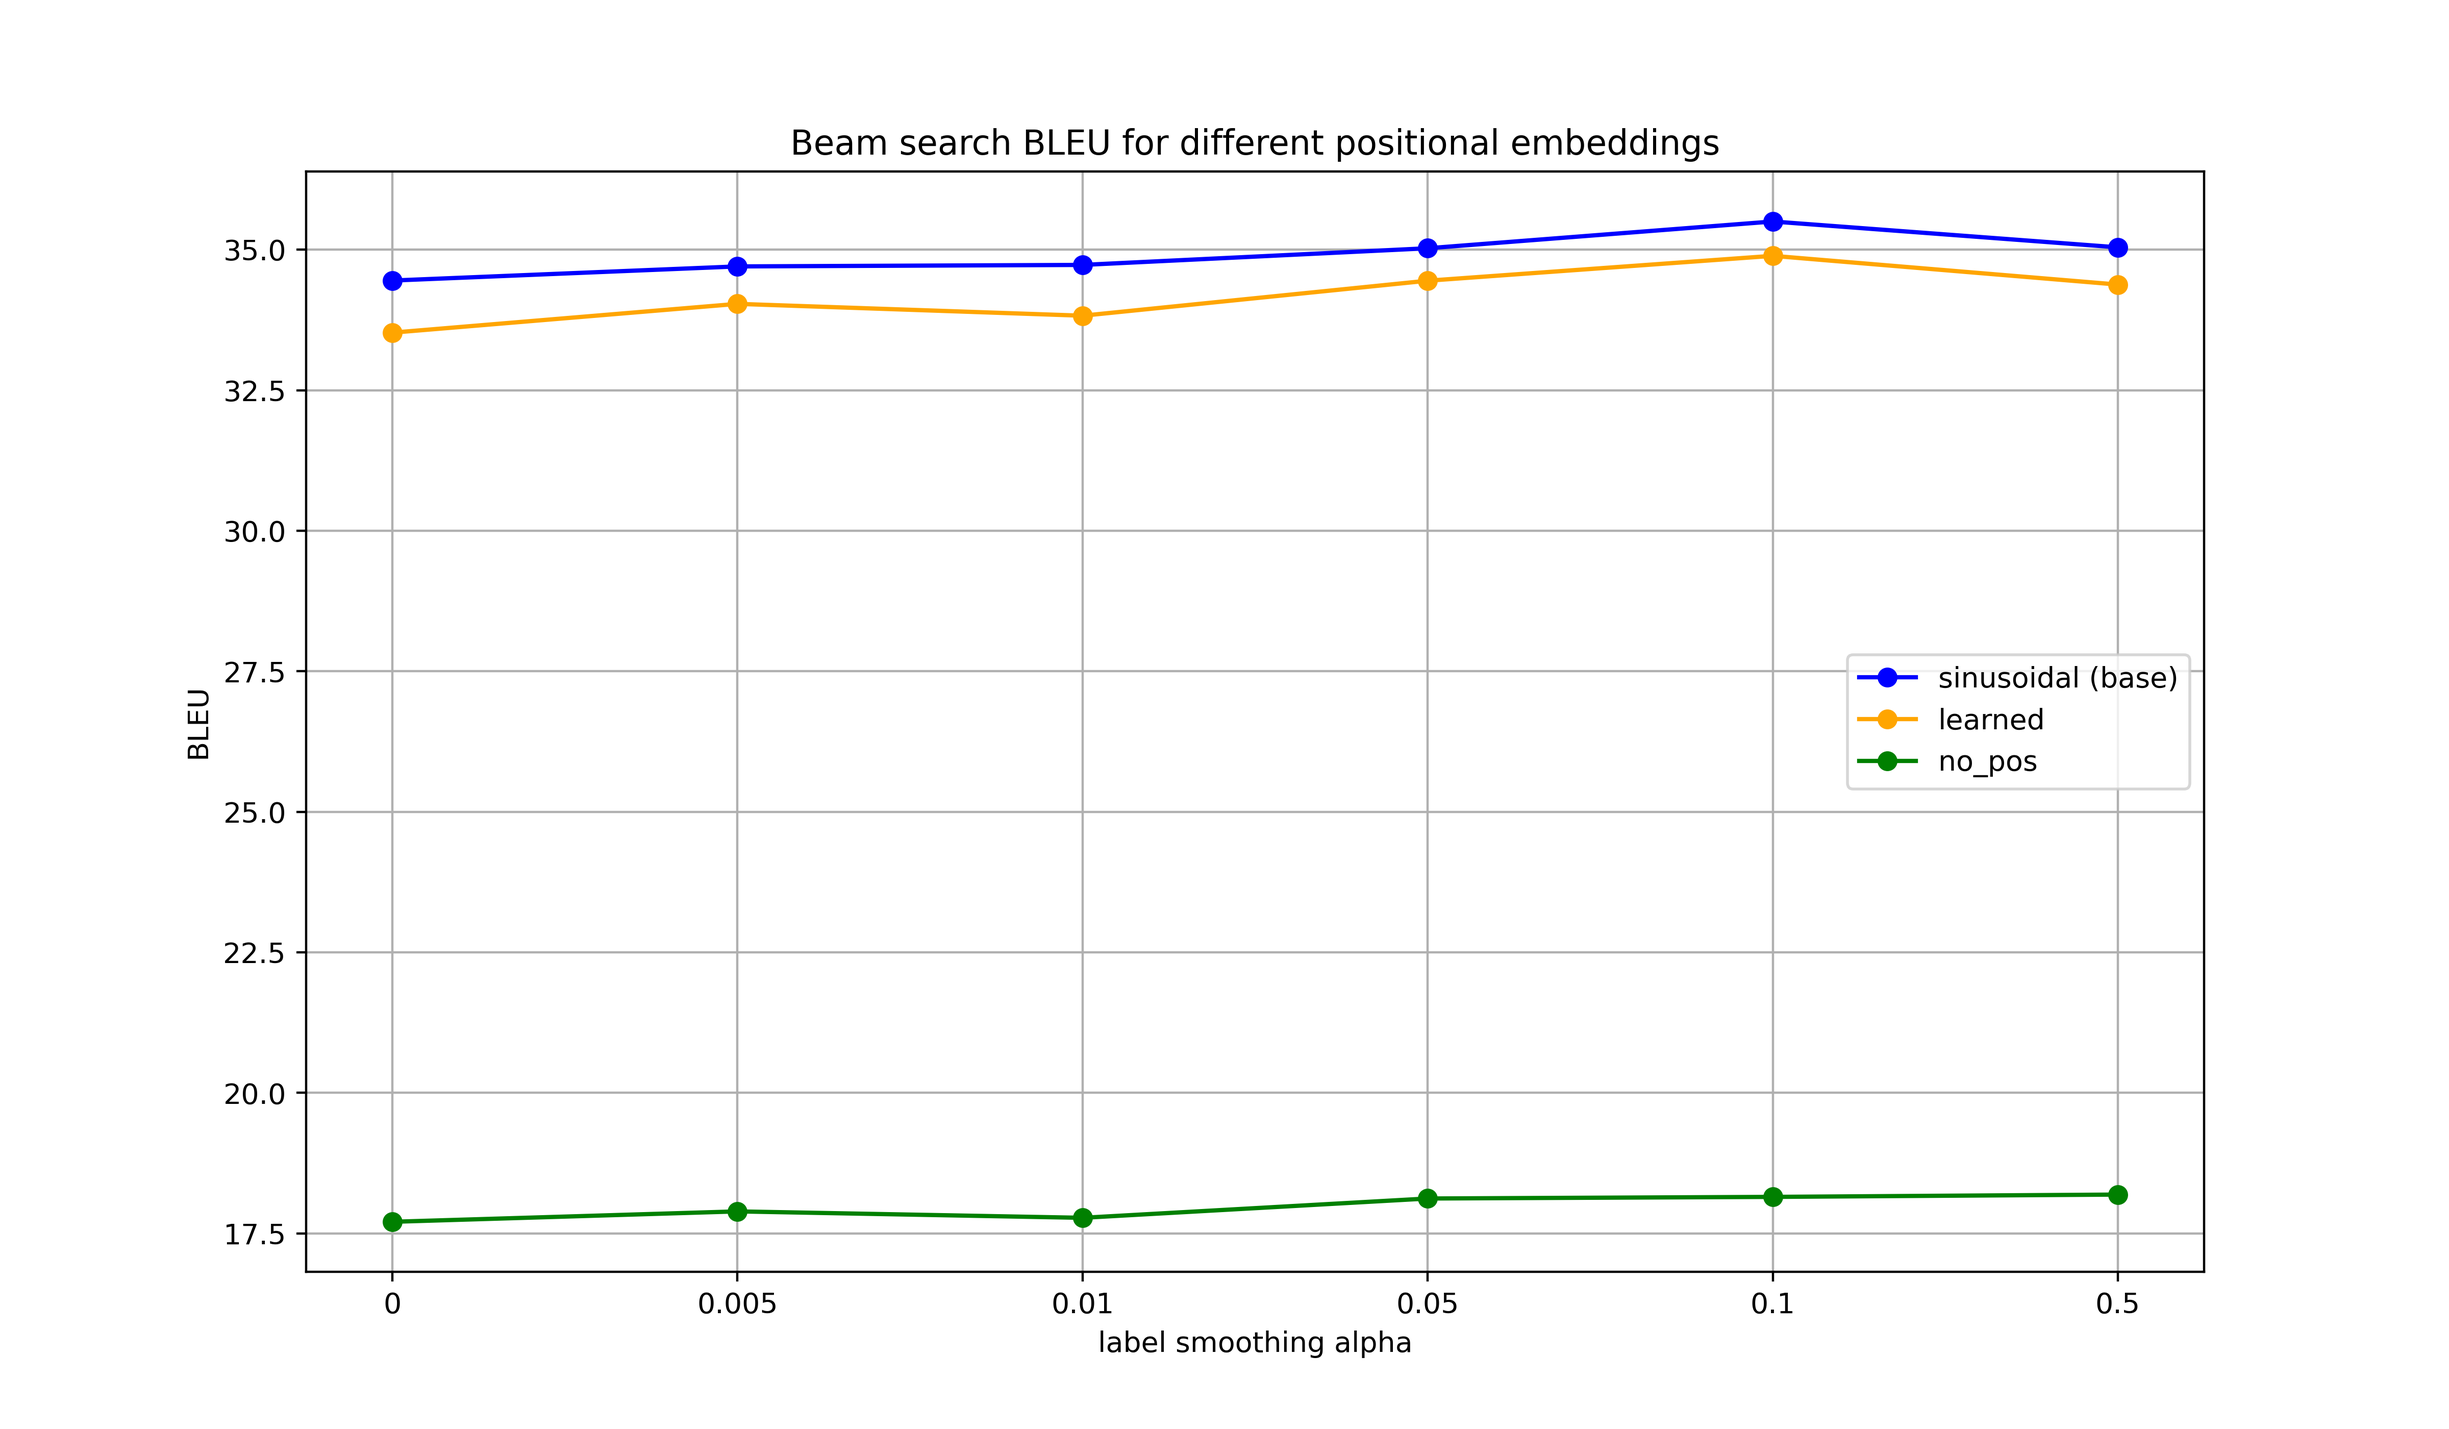
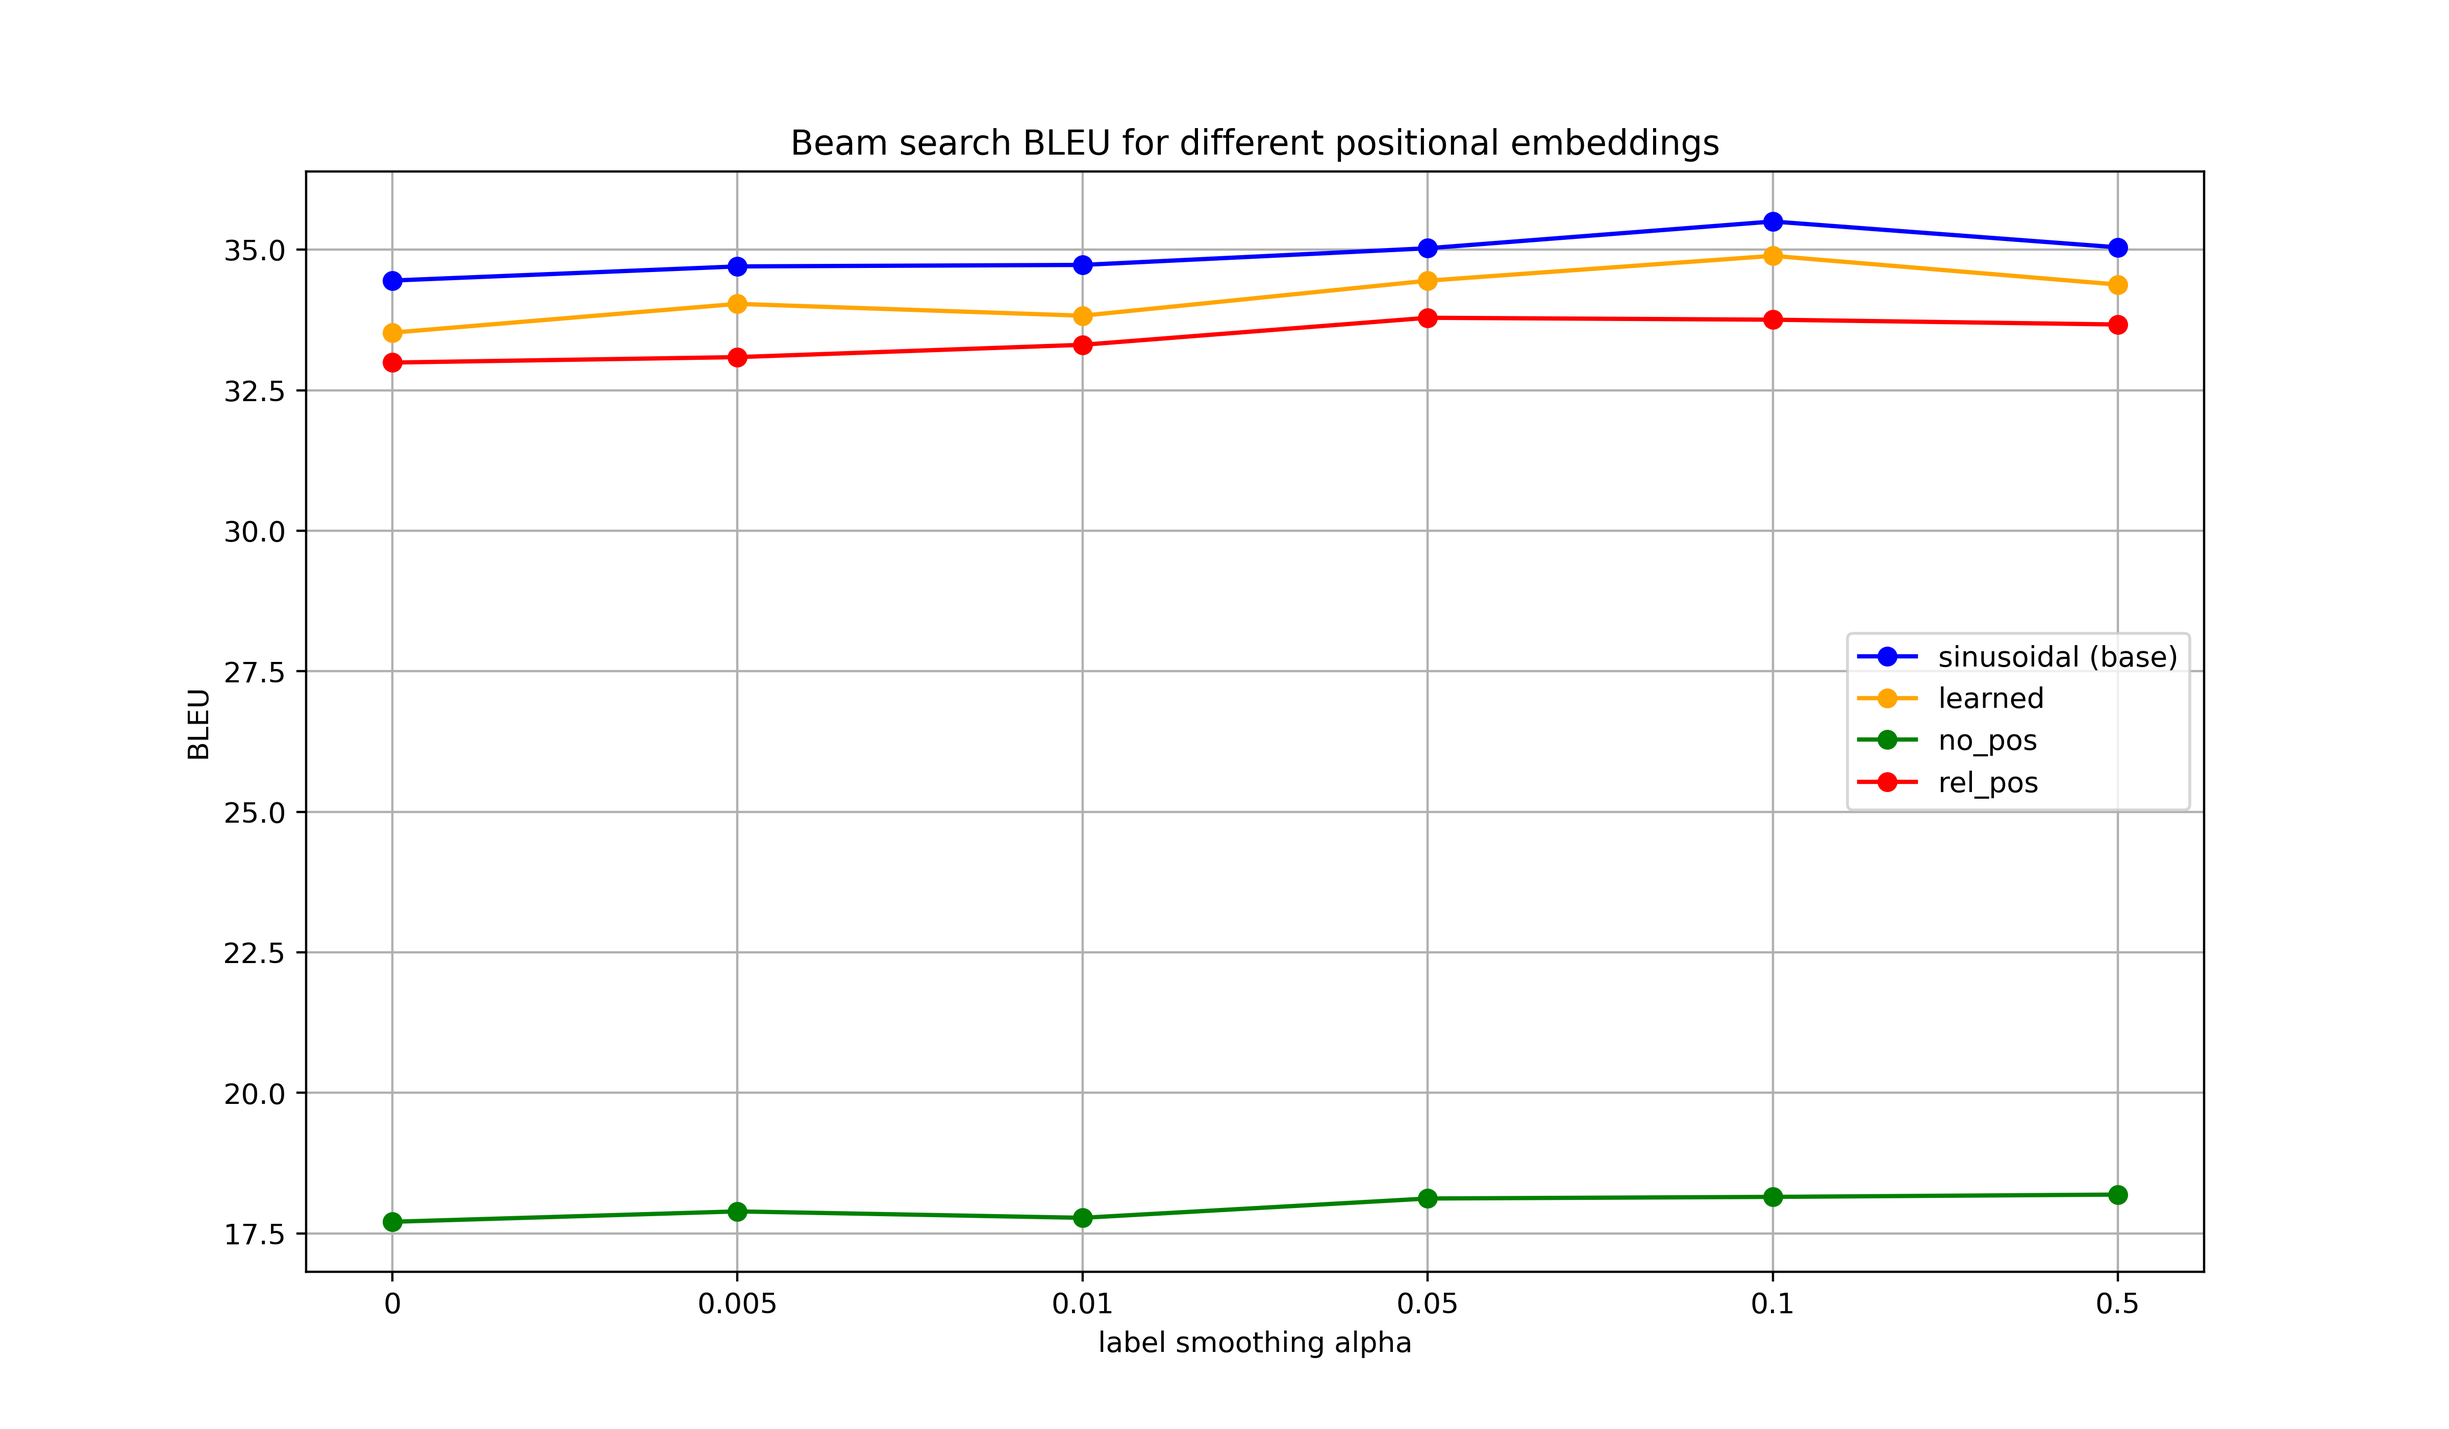
positional embedding plots

Changed region(s): [[0.3438, 0.2175, 0.875, 0.2486], [0.75, 0.435, 0.9062, 0.5593], [0.1562, 0.2486, 0.3125, 0.2796]]

diff --git a/transformer/scripts/nopos_sampling.py b/transformer/scripts/nopos_sampling.py
@@ -3,11 +3,11 @@ import matplotlib.pyplot as plt
 import math
 
 ls_list = ['0', '0.005', '0.01', '0.05', '0.1', '0.5']
-hyp_dict = {'base':[], 'pos_learned':[], 'no_pos':[], 'rel_pos':[]}
-bleu_dict = {'base':[], 'pos_learned':[], 'no_pos':[], 'rel_pos':[]}
-ref_dict = {'base':[], 'pos_learned':[], 'no_pos':[], 'rel_pos':[]}
-se_dict = {'base':[], 'pos_learned':[], 'no_pos':[], 'rel_pos':[]}
-std_dict = {'base':[], 'pos_learned':[], 'no_pos':[], 'rel_pos':[]}
+hyp_dict = {'base':[], 'no_pos':[], 'no_pos_1':[], 'no_pos_2':[]}
+bleu_dict = {'base':[], 'no_pos':[], 'no_pos_1':[], 'no_pos_2':[]}
+ref_dict = {'base':[], 'no_pos':[], 'no_pos_1':[], 'no_pos_2':[]}
+se_dict = {'base':[], 'no_pos':[], 'no_pos_1':[], 'no_pos_2':[]}
+std_dict = {'base':[], 'no_pos':[], 'no_pos_1':[], 'no_pos_2':[]}
 
 for d in hyp_dict.keys():
     for l in ls_list:
@@ -40,9 +40,9 @@ for d in hyp_dict.keys():
 plt.figure(figsize=(12,7))
 plt.errorbar(ls_list, hyp_dict['base'], se_dict['base'], marker='o', label='sinusoid (base)', color='blue', capsize=4)
 plt.hlines(ref_dict['base'][0], ls_list[0], ls_list[-1], label='reference', color='grey', linestyle='dashed')
-plt.errorbar(ls_list, hyp_dict['pos_learned'], se_dict['pos_learned'], marker='o', label='learned', color='orange', capsize=4)
-plt.errorbar(ls_list, hyp_dict['no_pos'], se_dict['no_pos'], marker='o', label='no_pos', color='green', capsize=4)
-plt.errorbar(ls_list, hyp_dict['rel_pos'], se_dict['rel_pos'], marker='o', label='rel_pos', color='red', capsize=4)
+plt.errorbar(ls_list, hyp_dict['no_pos'], se_dict['no_pos'], marker='o', label='no_pos', color='red', capsize=4)
+plt.errorbar(ls_list, hyp_dict['no_pos_1'], se_dict['no_pos_1'], marker='o', label='no_pos control 1', color='orange', capsize=4)
+plt.errorbar(ls_list, hyp_dict['no_pos_2'], se_dict['no_pos_2'], marker='o', label='no_pos control 2', color='green', capsize=4)
 
 
 training_avg = 0
@@ -53,26 +53,26 @@ training_avg /= len(training_file)
 plt.hlines(training_avg, ls_list[0], ls_list[-1], label='training set', color='grey', linestyle='dotted')
 
 plt.grid()
-plt.title('Sampling average sentence length for different positional embeddings (with SE)')
+plt.title('Sampling average sentence length 3 separate nopos models (with SE)')
 plt.ylabel('length')
 plt.xlabel('label smoothing alpha')
 plt.legend()
-plt.savefig('img/pos_sampling.png', dpi=400)
+plt.savefig('img/nopos_sampling.png', dpi=400)
 plt.clf()
 
 plt.figure(figsize=(12,7))
 plt.errorbar(ls_list, hyp_dict['base'], std_dict['base'], marker='o', label='sinusoid (base)', color='blue', capsize=4)
 plt.hlines(ref_dict['base'][0], ls_list[0], ls_list[-1], label='reference', color='grey', linestyle='dashed')
-plt.errorbar(ls_list, hyp_dict['pos_learned'], std_dict['pos_learned'], marker='o', label='learned', color='orange', capsize=4)
-plt.errorbar(ls_list, hyp_dict['no_pos'], std_dict['no_pos'], marker='o', label='no_pos', color='green', capsize=4)
-plt.errorbar(ls_list, hyp_dict['rel_pos'], std_dict['rel_pos'], marker='o', label='rel_pos', color='red', capsize=4)
+plt.errorbar(ls_list, hyp_dict['no_pos'], std_dict['no_pos'], marker='o', label='no_pos', color='red', capsize=4)
+plt.errorbar(ls_list, hyp_dict['no_pos_1'], std_dict['no_pos_1'], marker='o', label='no_pos control 1', color='orange', capsize=4)
+plt.errorbar(ls_list, hyp_dict['no_pos_2'], std_dict['no_pos_2'], marker='o', label='no_pos control 2', color='green', capsize=4)
 plt.hlines(training_avg, ls_list[0], ls_list[-1], label='training set', color='grey', linestyle='dotted')
 
 plt.grid()
-plt.title('Sampling average sentence length for different positional embeddings (with SD)')
+plt.title('Sampling average sentence length of 3 separate nopos models (with SD)')
 plt.ylabel('length')
 plt.xlabel('label smoothing alpha')
 plt.legend()
-plt.savefig('img/pos_sampling_std.png', dpi=400)
+plt.savefig('img/nopos_sampling_std.png', dpi=400)
 plt.clf()
 

diff --git a/transformer/scripts/lr_split.py b/transformer/scripts/lr_split.py
@@ -1,0 +1,64 @@
+import sys
+import matplotlib.pyplot as plt
+import math
+
+ls_list = ['0', '0.005', '0.01', '0.05', '0.1', '0.5']
+hyp_dict = {'base':[], 'short':[], 'long':[]}
+bleu_dict = {'base':[], 'short':[], 'long':[]}
+ref_dict = {'base':[], 'short':[], 'long':[]}
+se_dict = {'base':[], 'short':[], 'long':[]}
+
+for d in hyp_dict.keys():
+    for l in ls_list:
+        f = open(f'/cluster/home/ggabriel/ls-length-bias/transformer/no_pos/evaluation/ls_{l}/generate-test-sampling.txt','r')
+        i = 0
+        hyp_list = []
+        ref_len = 0
+        hyp_len = 0
+        hyp_se = 0
+        total_count = 0
+        src_len = 0
+        for line in f:
+            #print(line)
+            #print(eval(line))
+            if d == 'short':
+                if i > 8079//4:
+                    break
+                else:
+                    i += 1
+            if d == 'long':
+                if i < 8079//4:
+                    i+= 1
+                    continue
+            ls = eval(line)
+            src_len += ls[0]
+            ref_len += ls[1]
+            hyp_sum = sum(ls[2:])
+            hyp_len += hyp_sum/1000
+            hyp_se += math.sqrt(sum([(x - hyp_sum/1000)**2 for x in ls[2:]])/1000)/math.sqrt(1000)
+            total_count += 1
+        hyp_dict[d].append(hyp_len/total_count)
+        se_dict[d].append(hyp_se / total_count)
+        ref_dict[d].append(ref_len / total_count)
+        print(hyp_dict[d], se_dict[d], ref_dict[d])
+plt.figure(figsize=(12,7))
+plt.errorbar(ls_list, hyp_dict['base'], se_dict['base'], marker='o', linestyle='dashed', label='base', color='blue', capsize=4)
+plt.hlines(ref_dict['base'][0], ls_list[0], ls_list[-1], label='base reference', color='blue')
+training_avg = 0
+training_file = open('../data/iwslt17.de-en.bpe16k/train.bpe.de-en.en').readlines()
+for line in training_file:
+    training_avg += len(line.split())
+training_avg /= len(training_file)
+plt.hlines(training_avg, ls_list[0], ls_list[-1], label='train reference', color='red')
+plt.errorbar(ls_list, hyp_dict['short'], se_dict['short'], marker='o', linestyle='dashed', label='short', color='orange', capsize=4)
+plt.hlines(ref_dict['short'][0], ls_list[0], ls_list[-1], label='short reference', color='orange')
+plt.errorbar(ls_list, hyp_dict['long'], se_dict['long'], marker='o', linestyle='dashed', label='long', color='green', capsize=4)
+plt.hlines(ref_dict['long'][0], ls_list[0], ls_list[-1], label='long reference', color='green')
+
+plt.grid()
+plt.title('Sampling average sentence length for length splits')
+plt.ylabel('length')
+plt.xlabel('label smoothing alpha')
+plt.legend()
+plt.savefig('img/split.png', dpi=400)
+plt.clf()

diff --git a/transformer/scripts/pos_lr.py b/transformer/scripts/pos_lr.py
@@ -5,9 +5,9 @@ import numpy as np
 from sacrebleu.metrics import BLEU#, CHRF, TER
 
 ls_list = ['0', '0.005', '0.01', '0.05', '0.1', '0.5']
-hyp_dict = {'base':[], 'pos_learned':[], 'no_pos':[]}
-bleu_dict = {'base':[], 'pos_learned':[], 'no_pos':[]}
-ref_dict = {'base':[], 'pos_learned':[], 'no_pos':[]}
+hyp_dict = {'base':[], 'pos_learned':[], 'no_pos':[], 'rel_pos':[]}
+bleu_dict = {'base':[], 'pos_learned':[], 'no_pos':[], 'rel_pos':[]}
+ref_dict = {'base':[], 'pos_learned':[], 'no_pos':[], 'rel_pos':[]}
 ref_corpus = []
 hyp_corpus = []
 
@@ -40,10 +40,11 @@ for d in hyp_dict.keys():
 plt.figure(figsize=(12,7))
 #plt.ylim(0.5, 1.2)
 
-plt.plot(ls_list, hyp_dict['base'], '--o', label='sinusoid (base)', color='blue')
-plt.hlines(ref_dict['base'][0], ls_list[0], ls_list[-1], color='blue', label='reference')
-plt.plot(ls_list, hyp_dict['pos_learned'], '--o', label='learned', color='orange')
-plt.plot(ls_list, hyp_dict['no_pos'], '--o', label='no_pos', color='green')
+plt.plot(ls_list, hyp_dict['base'], '-o', label='sinusoid (base)', color='blue')
+plt.hlines(ref_dict['base'][0], ls_list[0], ls_list[-1], color='grey', label='reference', linestyle='dashed')
+plt.plot(ls_list, hyp_dict['pos_learned'], '-o', label='learned', color='orange')
+plt.plot(ls_list, hyp_dict['no_pos'], '-o', label='no_pos', color='green')
+plt.plot(ls_list, hyp_dict['rel_pos'], '-o', label='rel_pos', color='red')
 plt.grid()
 plt.title('Beam search average sentence length for different positional embeddings')
 plt.ylabel('length')
@@ -56,6 +57,7 @@ plt.figure(figsize=(12,7))
 plt.plot(ls_list, bleu_dict['base'], '-o', label='sinusoidal (base)', color='blue')
 plt.plot(ls_list, bleu_dict['pos_learned'], '-o', label='learned', color='orange')
 plt.plot(ls_list, bleu_dict['no_pos'], '-o', label='no_pos', color='green')
+plt.plot(ls_list, bleu_dict['rel_pos'], '-o', label='rel_pos', color='red')
 plt.grid()
 plt.title('Beam search BLEU for different positional embeddings')
 plt.ylabel('BLEU')

diff --git a/transformer/scripts/lr_sampling.py b/transformer/scripts/lr_sampling.py
@@ -33,12 +33,12 @@ for d in hyp_dict.keys():
         ref_dict[d].append(ref_len / total_count)
         print(hyp_dict[d], se_dict[d], ref_dict[d])
 plt.figure(figsize=(12,7))
-plt.errorbar(ls_list, hyp_dict['base'], se_dict['base'], marker='o', linestyle='dashed', label='16k (base)', color='blue', capsize=4)
-plt.hlines(ref_dict['base'][0], ls_list[0], ls_list[-1], label='16k (base) reference', color='blue')
-plt.errorbar(ls_list, hyp_dict['4k'], se_dict['4k'], marker='o', linestyle='dashed', label='4k', color='orange', capsize=4)
-plt.hlines(ref_dict['4k'][0], ls_list[0], ls_list[-1], label='4k reference', color='orange')
-plt.errorbar(ls_list, hyp_dict['64k'], se_dict['64k'], marker='o', linestyle='dashed', label='64k', color='green', capsize=4)
-plt.hlines(ref_dict['64k'][0], ls_list[0], ls_list[-1], label='64k reference', color='green')
+plt.errorbar(ls_list, hyp_dict['base'], se_dict['base'], marker='o', label='16k (base)', color='blue', capsize=4)
+plt.hlines(ref_dict['base'][0], ls_list[0], ls_list[-1], linestyle='dashed', label='16k (base) reference', color='blue')
+plt.errorbar(ls_list, hyp_dict['4k'], se_dict['4k'], marker='o', label='4k', color='orange', capsize=4)
+plt.hlines(ref_dict['4k'][0], ls_list[0], ls_list[-1], linestyle='dashed', label='4k reference', color='orange')
+plt.errorbar(ls_list, hyp_dict['64k'], se_dict['64k'], marker='o', label='64k', color='green', capsize=4)
+plt.hlines(ref_dict['64k'][0], ls_list[0], ls_list[-1], linestyle='dashed', label='64k reference', color='green')
 plt.grid()
 plt.title('Sampling average sentence length for different label smoothing alpha')
 plt.ylabel('length')

diff --git a/transformer/scripts/lr.py b/transformer/scripts/lr.py
@@ -40,12 +40,12 @@ for d in hyp_dict.keys():
 plt.figure(figsize=(12,7))
 #plt.ylim(0.5, 1.2)
 
-plt.plot(ls_list, hyp_dict['base'], '--o', label='16k (base)', color='blue')
-plt.hlines(ref_dict['base'][0], ls_list[0], ls_list[-1], color='blue', label='16k (base) reference')
-plt.plot(ls_list, hyp_dict['4k'], '--o', label='4k', color='orange')
-plt.hlines(ref_dict['4k'][0], ls_list[0], ls_list[-1], color='orange', label='4k reference')
-plt.plot(ls_list, hyp_dict['64k'], '--o', label='64k', color='green')
-plt.hlines(ref_dict['64k'][0], ls_list[0], ls_list[-1], color='green', label='64k reference')
+plt.plot(ls_list, hyp_dict['base'], '-o', label='16k (base)', color='blue')
+plt.hlines(ref_dict['base'][0], ls_list[0], ls_list[-1], color='blue', label='16k (base) reference', linestyle='dashed')
+plt.plot(ls_list, hyp_dict['4k'], '-o', label='4k', color='orange')
+plt.hlines(ref_dict['4k'][0], ls_list[0], ls_list[-1], color='orange', label='4k reference', linestyle='dashed')
+plt.plot(ls_list, hyp_dict['64k'], '-o', label='64k', color='green')
+plt.hlines(ref_dict['64k'][0], ls_list[0], ls_list[-1], color='green', label='64k reference', linestyle='dashed')
 plt.grid()
 plt.title('Beam search average sentence length for different bpe dictionary sizes')
 plt.ylabel('length')

diff --git a/transformer/scripts/count.py b/transformer/scripts/count.py
@@ -1,7 +1,7 @@
-#ls_list = ['0', '0.005', '0.01', '0.05', '0.1', '0.5']
-ls_list = ['0.5']
+ls_list = ['0', '0.005', '0.01', '0.05', '0.1', '0.5']
+#ls_list = ['0']
 #hyp_dict = {'base':[], '4k':[], '64k':[]}
-hyp_dict = {'no_pos':[]}
+hyp_dict = {'rel_pos':[]}
 
 for d in hyp_dict.keys():
     for l in ls_list:
@@ -11,13 +11,15 @@ for d in hyp_dict.keys():
         line_out = []
         i = 0
         for line in f:
+            if line[0] == '2':
+                continue
             if line[0] == 'S':
                 line_out.append(len(line.split()[1:]))
             elif line[0] == 'T':
                 line_out.append(len(line.split()[1:]))
             elif line[0] == 'H':
                 line_out.append(len(line.split()[2:]))
-            if i == 3001:
+            if i == 1501:
                 f_out.write(str(line_out) + '\n')
                 line_out = []
                 i = 0

diff --git a/transformer/scripts/split_len.py b/transformer/scripts/split_len.py
@@ -1,0 +1,11 @@
+lines = open('../data/iwslt17.de-en.bpe16k/test.bpe.de-en.en').readlines()
+
+lines.sort(key=lambda x: len(x.split()),reverse=False)
+print(lines[:10])
+with open('../data/iwslt17.de-en.bpe16k/test_split_short.en', 'w') as f:
+    for line in lines[:(len(lines)//2)]:
+        f.write(line)
+
+with open('../data/iwslt17.de-en.bpe16k/test_split_long.en', 'w') as f:
+    for line in lines[(len(lines)//2):]:
+        f.write(line)
